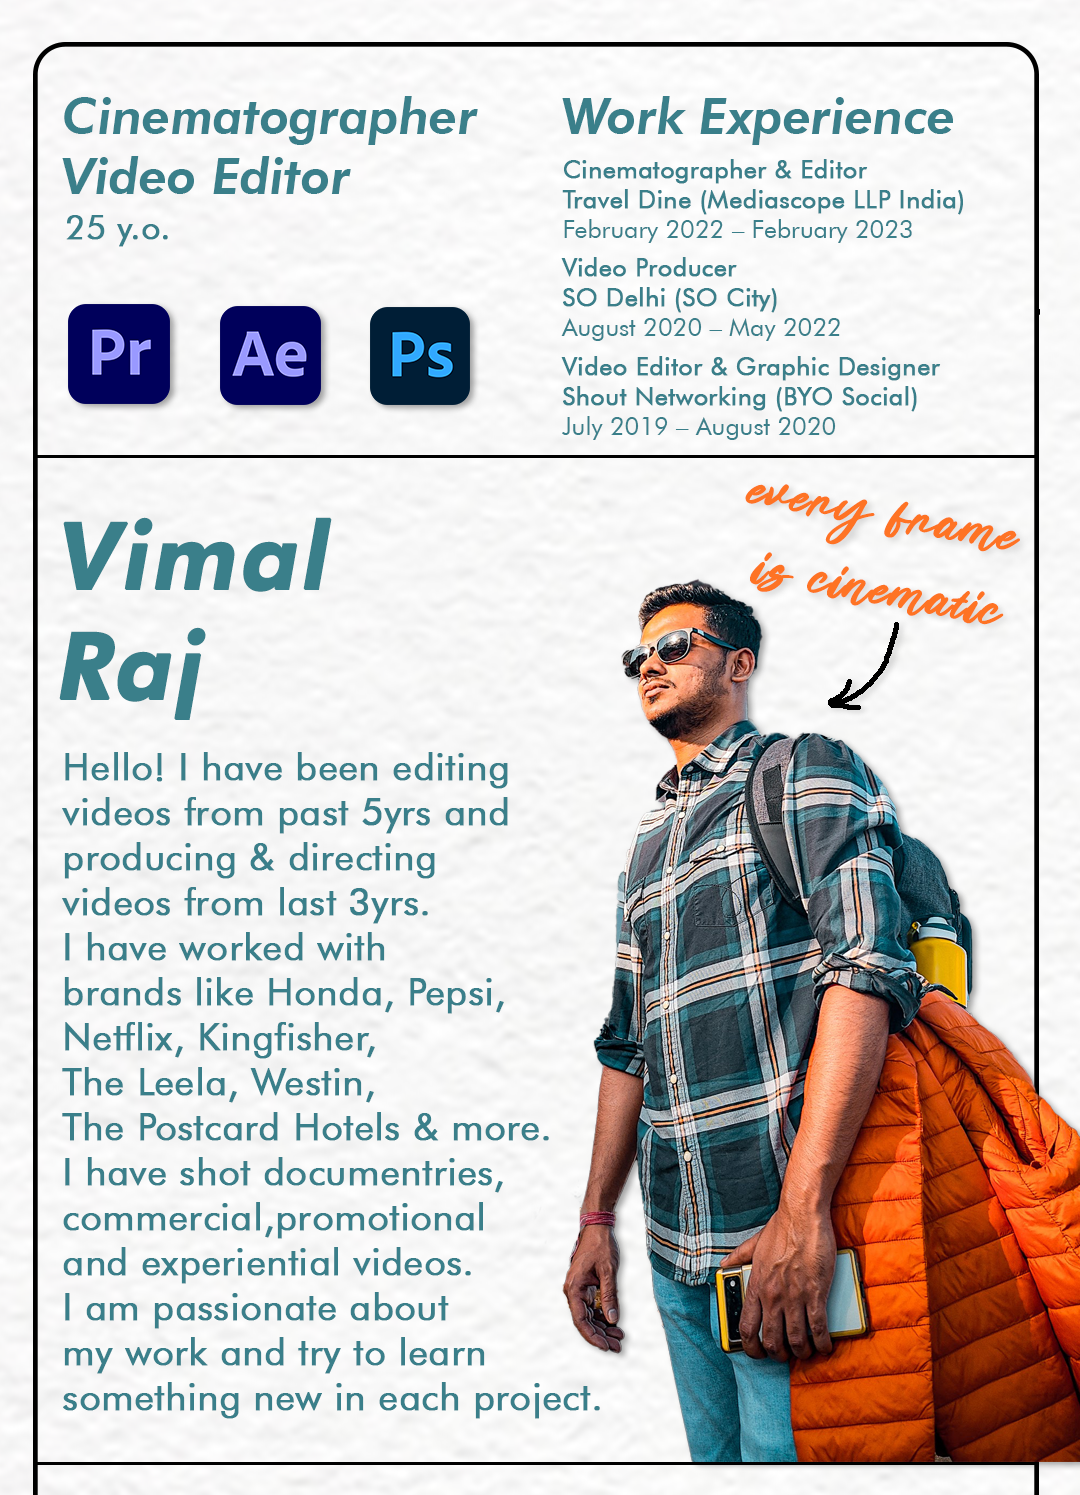
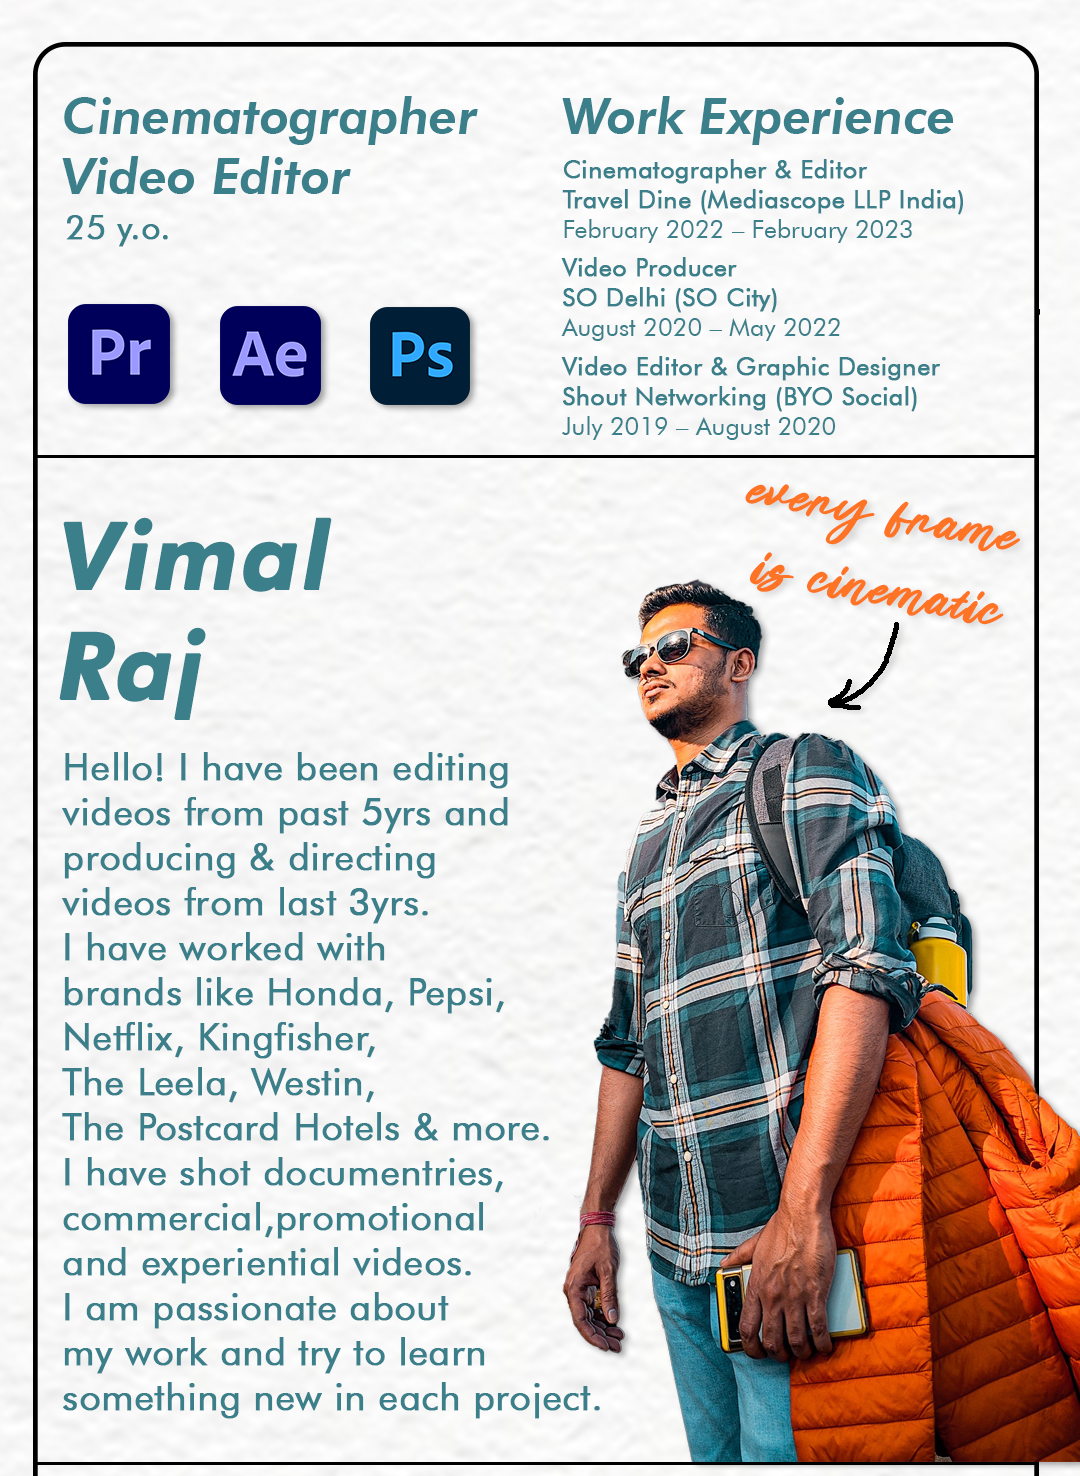
update

Changed region(s): [[0.0306, 0.0623, 1.0, 0.9973], [0.0611, 0.0623, 0.4278, 0.187]]

diff --git a/pg1.html b/pg1.html
@@ -8,20 +8,20 @@
 <table id="Table_01" width="1080" height="1920" border="0" cellpadding="0" cellspacing="0">
 	<tr>
 		<td colspan="3">
-			<img src="images/pg1_01.png" width="1080" height="1495" alt=""></td>
+			<img src="images/pg1_01.png" width="1080" height="1476" alt=""></td>
 	</tr>
 	<tr>
 		<td rowspan="2">
-			<img src="images/pg1_02.png" width="453" height="425" alt=""></td>
+			<img src="images/pg1_02.png" width="438" height="444" alt=""></td>
 		<td>
 			<a href="https://www.instagram.com/_thewayiare_/" target="_blank">
-				<img src="images/instagram.png" width="178" height="124" border="0" alt=""></a></td>
+				<img src="images/instagram.png" width="224" height="155" border="0" alt=""></a></td>
 		<td rowspan="2">
-			<img src="images/pg1_04.png" width="449" height="425" alt=""></td>
+			<img src="images/pg1_04.png" width="418" height="444" alt=""></td>
 	</tr>
 	<tr>
 		<td>
-			<img src="images/pg1_05.png" width="178" height="301" alt=""></td>
+			<img src="images/pg1_05.png" width="224" height="289" alt=""></td>
 	</tr>
 </table>
 <!-- End Save for Web Slices -->
